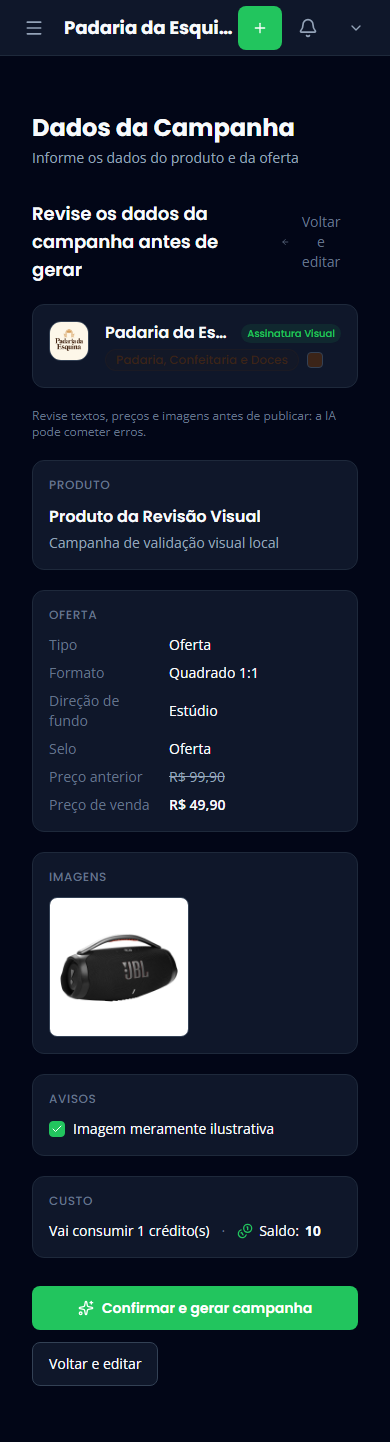
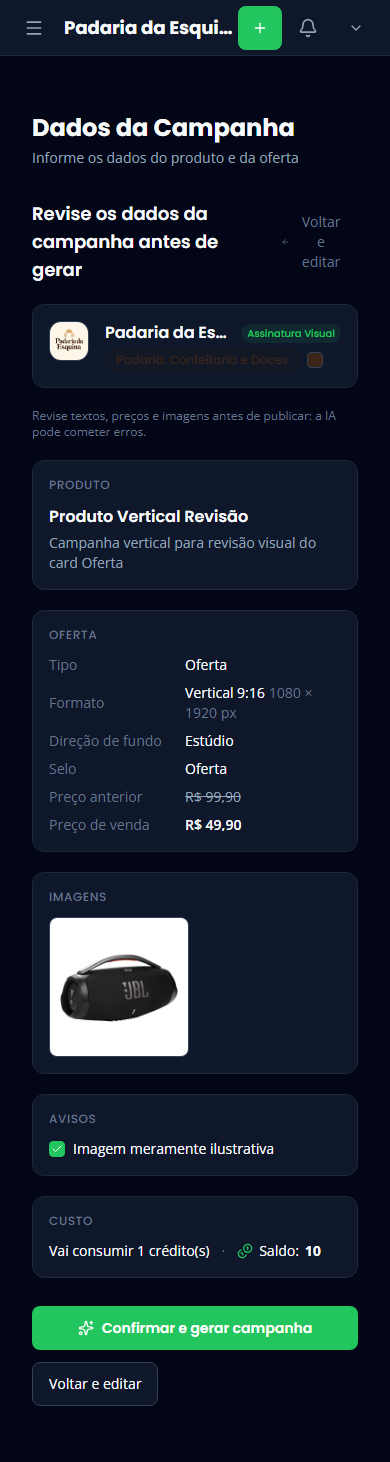
fix(261106-qxn): ampliar coluna de rotulos da revisao

diff --git a/src/components/flow/campaign-brief-review.tsx b/src/components/flow/campaign-brief-review.tsx
@@ -157,13 +157,13 @@ export function CampaignBriefReview({
         </h3>
         <dl className="space-y-2">
           <div className="flex items-center gap-2">
-            <dt className="text-text-muted text-sm font-body w-28 shrink-0">Tipo</dt>
-            <dd className="text-text-primary text-sm font-body">{INTENT_LABELS[intent] ?? intent}</dd>
+            <dt className="text-text-muted text-sm font-body w-32 shrink-0">Tipo</dt>
+            <dd className="min-w-0 break-words text-text-primary text-sm font-body">{INTENT_LABELS[intent] ?? intent}</dd>
           </div>
           {eligible && (
             <div className="flex items-center gap-2">
-              <dt className="text-text-muted text-sm font-body w-28 shrink-0">Formato</dt>
-              <dd className="text-text-primary text-sm font-body">
+              <dt className="text-text-muted text-sm font-body w-32 shrink-0">Formato</dt>
+              <dd className="min-w-0 break-words text-text-primary text-sm font-body">
                 {campaignFormat === "9:16" ? "Vertical 9:16" : "Quadrado 1:1"}
                 {campaignFormat === "9:16" && (
                   <span className="ml-1 text-text-muted">1080 × 1920 px</span>
@@ -173,40 +173,40 @@ export function CampaignBriefReview({
           )}
           {eligible && fields.backgroundDirection && (
             <div className="flex items-center gap-2">
-              <dt className="text-text-muted text-sm font-body w-28 shrink-0">
+              <dt className="text-text-muted text-sm font-body w-32 shrink-0">
                 Direção de fundo
               </dt>
-              <dd className="text-text-primary text-sm font-body">
+              <dd className="min-w-0 break-words text-text-primary text-sm font-body">
                 {FLOW_BACKGROUND_DIRECTION_LABELS[fields.backgroundDirection]}
               </dd>
             </div>
           )}
           {fields.badge && (
             <div className="flex items-center gap-2">
-              <dt className="text-text-muted text-sm font-body w-28 shrink-0">Selo</dt>
-              <dd className="text-text-primary text-sm font-body">{fields.badge}</dd>
+              <dt className="text-text-muted text-sm font-body w-32 shrink-0">Selo</dt>
+              <dd className="min-w-0 break-words text-text-primary text-sm font-body">{fields.badge}</dd>
             </div>
           )}
           {fields.originalPriceCents > 0 && (
             <div className="flex items-center gap-2">
-              <dt className="text-text-muted text-sm font-body w-28 shrink-0">Preço anterior</dt>
-              <dd className="text-text-secondary text-sm font-body line-through">
+              <dt className="text-text-muted text-sm font-body w-32 shrink-0">Preço anterior</dt>
+              <dd className="min-w-0 break-words text-text-secondary text-sm font-body line-through">
                 {formatCurrencyBRL(fields.originalPriceCents)}
               </dd>
             </div>
           )}
           {fields.discountedPriceCents !== undefined && fields.discountedPriceCents > 0 && (
             <div className="flex items-center gap-2">
-              <dt className="text-text-muted text-sm font-body w-28 shrink-0">Preço de venda</dt>
-              <dd className="text-text-primary text-sm font-body font-semibold">
+              <dt className="text-text-muted text-sm font-body w-32 shrink-0">Preço de venda</dt>
+              <dd className="min-w-0 break-words text-text-primary text-sm font-body font-semibold">
                 {formatCurrencyBRL(fields.discountedPriceCents)}
               </dd>
             </div>
           )}
           {validity && (
             <div className="flex items-center gap-2">
-              <dt className="text-text-muted text-sm font-body w-28 shrink-0">Validade</dt>
-              <dd className="text-text-primary text-sm font-body">{validity}</dd>
+              <dt className="text-text-muted text-sm font-body w-32 shrink-0">Validade</dt>
+              <dd className="min-w-0 break-words text-text-primary text-sm font-body">{validity}</dd>
             </div>
           )}
         </dl>

diff --git a/src/components/flow/__tests__/campaign-brief-review.test.tsx b/src/components/flow/__tests__/campaign-brief-review.test.tsx
@@ -241,7 +241,10 @@ describe("CampaignBriefReview — Testes 11-16 (F43)", () => {
 
       const format = screen.getByText("Formato");
       const direction = screen.getByText("Direção de fundo");
-      expect(screen.getByText(label)).toBeInTheDocument();
+      const value = screen.getByText(label);
+      expect(value).toBeInTheDocument();
+      expect(direction).toHaveClass("w-32");
+      expect(value).toHaveClass("min-w-0", "break-words");
       expect(
         format.compareDocumentPosition(direction) & Node.DOCUMENT_POSITION_FOLLOWING,
       ).toBeTruthy();

diff --git a/.planning/quick/261106-qxn-clareza-da-interface-de-campanhas-seleto/261106-qxn-SUMMARY.md b/.planning/quick/261106-qxn-clareza-da-interface-de-campanhas-seleto/261106-qxn-SUMMARY.md
@@ -70,6 +70,20 @@ completed_at: 2026-11-06
 
 **Nota de ambiente:** o comando `npm` global é um shim de 0 byte em `C:\WINDOWS\system32\npm`. Os gates reais foram executados com `C:\Program Files\nodejs\npm.cmd`.
 
+### 2.1 Acabamento pós-aceite — card Oferta
+
+- Coluna de rótulos ampliada uniformemente de `w-28` (112 px) para `w-32` (128 px).
+- Gap e alinhamento dos valores preservados; valores com `min-w-0 break-words`.
+- “Direção de fundo” confirmado em **uma linha a 128 px** no desktop (1440/1280).
+- Revisão vertical (`Vertical 9:16` + `1080 × 1920 px`) validada em 390/375/320 px,
+  sem overflow horizontal.
+- Teste focado da revisão: **1 arquivo / 12 testes passed**.
+- Typecheck e `git diff --check` reexecutados: **exit 0 / limpo**.
+- Build: a primeira tentativa falhou por cache `.next` obsoleto
+  (`PageNotFoundError` em rotas admin); após remover o cache gerado e rebuildar,
+  **96/96 páginas, exit 0**. Nenhuma alteração de código foi feita para contornar
+  o erro.
+
 ---
 
 ## 3. Evidência visual
@@ -81,11 +95,14 @@ Pasta: `.planning/quick/261106-qxn-clareza-da-interface-de-campanhas-seleto/evid
 - `desktop-1024-formulario.png` — 1024 px, empilhado com sidebar.
 - `mobile-formulario.png` — 390 px.
 - `mobile-375-formulario.png` e `mobile-320-formulario.png` — sem overflow.
-- `desktop-revisao.png` e `mobile-revisao.png` — título/subtítulo, sem seletor; Formato → Direção de fundo.
+- `desktop-revisao.png`, `desktop-1280-revisao.png`, `mobile-revisao.png`,
+  `mobile375-revisao.png` e `mobile320-revisao.png` — revisão vertical,
+  título/subtítulo sem seletor; Formato → Direção de fundo; coluna de 128 px.
 - `desktop-listagem.png` e `mobile-listagem.png` — rótulos “9:16 vertical”/“1:1 quadrado” nos cards.
 - `desktop-dashboard.png` e `mobile-dashboard.png` — rótulo junto aos metadados.
 - `visual-review.md` — observações e medições.
-- `capture-results.json`, `threshold-results.json`, `mobile-threshold-results.json` — medições.
+- `capture-results.json`, `threshold-results.json`, `mobile-threshold-results.json`,
+  `review-polish-results.json` — medições.
 
 **Calibração do grid:** 30rem deixava 1280 px sempre empilhado (976 px de cabeçalho). O limiar foi reduzido para 29rem após medição; 1280/1440 passam a duas colunas, 1024 e abaixo empilham.
 

diff --git a/.planning/quick/261106-qxn-clareza-da-interface-de-campanhas-seleto/evidence/visual-review.md b/.planning/quick/261106-qxn-clareza-da-interface-de-campanhas-seleto/evidence/visual-review.md
@@ -18,8 +18,11 @@
 | `mobile-formulario.png` | `/campanhas/nova` — edição normal | 390 × 844 |
 | `mobile-375-formulario.png` | `/campanhas/nova` — edição normal | 375 × 844 |
 | `mobile-320-formulario.png` | `/campanhas/nova` — edição normal | 320 × 844 |
-| `desktop-revisao.png` | revisão do brief | 1440 × 900 |
-| `mobile-revisao.png` | revisão do brief | 390 × 844 |
+| `desktop-revisao.png` | revisão do brief — vertical | 1440 × 900 |
+| `desktop-1280-revisao.png` | revisão do brief — vertical | 1280 × 900 |
+| `mobile-revisao.png` | revisão do brief — vertical | 390 × 844 |
+| `mobile375-revisao.png` | revisão do brief — vertical | 375 × 844 |
+| `mobile320-revisao.png` | revisão do brief — vertical | 320 × 844 |
 | `desktop-listagem.png` | `/campanhas` | 1440 × 900 |
 | `mobile-listagem.png` | `/campanhas` | 390 × 844 |
 | `desktop-dashboard.png` | `/dashboard` | 1440 × 900 |
@@ -64,6 +67,20 @@ compressão do label longo.
 - **Dashboard:** rótulo “9:16 vertical” aparece junto à data, fora da miniatura.
 - **Sem overflow horizontal** em 1440, 1280, 1024, 900, 390 e 320 px.
 - Nenhuma geração foi confirmada; nenhuma chamada paga foi feita.
+
+### 3.1 Acabamento do card Oferta — coluna de rótulos em 128 px
+
+- A coluna dos rótulos passou de `w-28` (112 px) para `w-32` (128 px) uniformemente
+  em todas as linhas do card Oferta; o `gap` e o alinhamento dos valores foram
+  mantidos.
+- “Direção de fundo” mede **128 px de largura e 20 px de altura (1 linha)** em
+  1440 px e 1280 px. O mesmo ocorre em 390/375/320 px.
+- Os valores ganharam `min-w-0 break-words`; não há `nowrap`, truncamento ou
+  redução de fonte. O valor vertical quebra naturalmente:
+  “Vertical 9:16 1080 × 1920 px”.
+- Em 320 px, o card Oferta tem 256 px de largura; o valor do formato quebra em
+  linhas e não há overflow horizontal.
+- Medições em `review-polish-results.json`.
 
 ---
 
